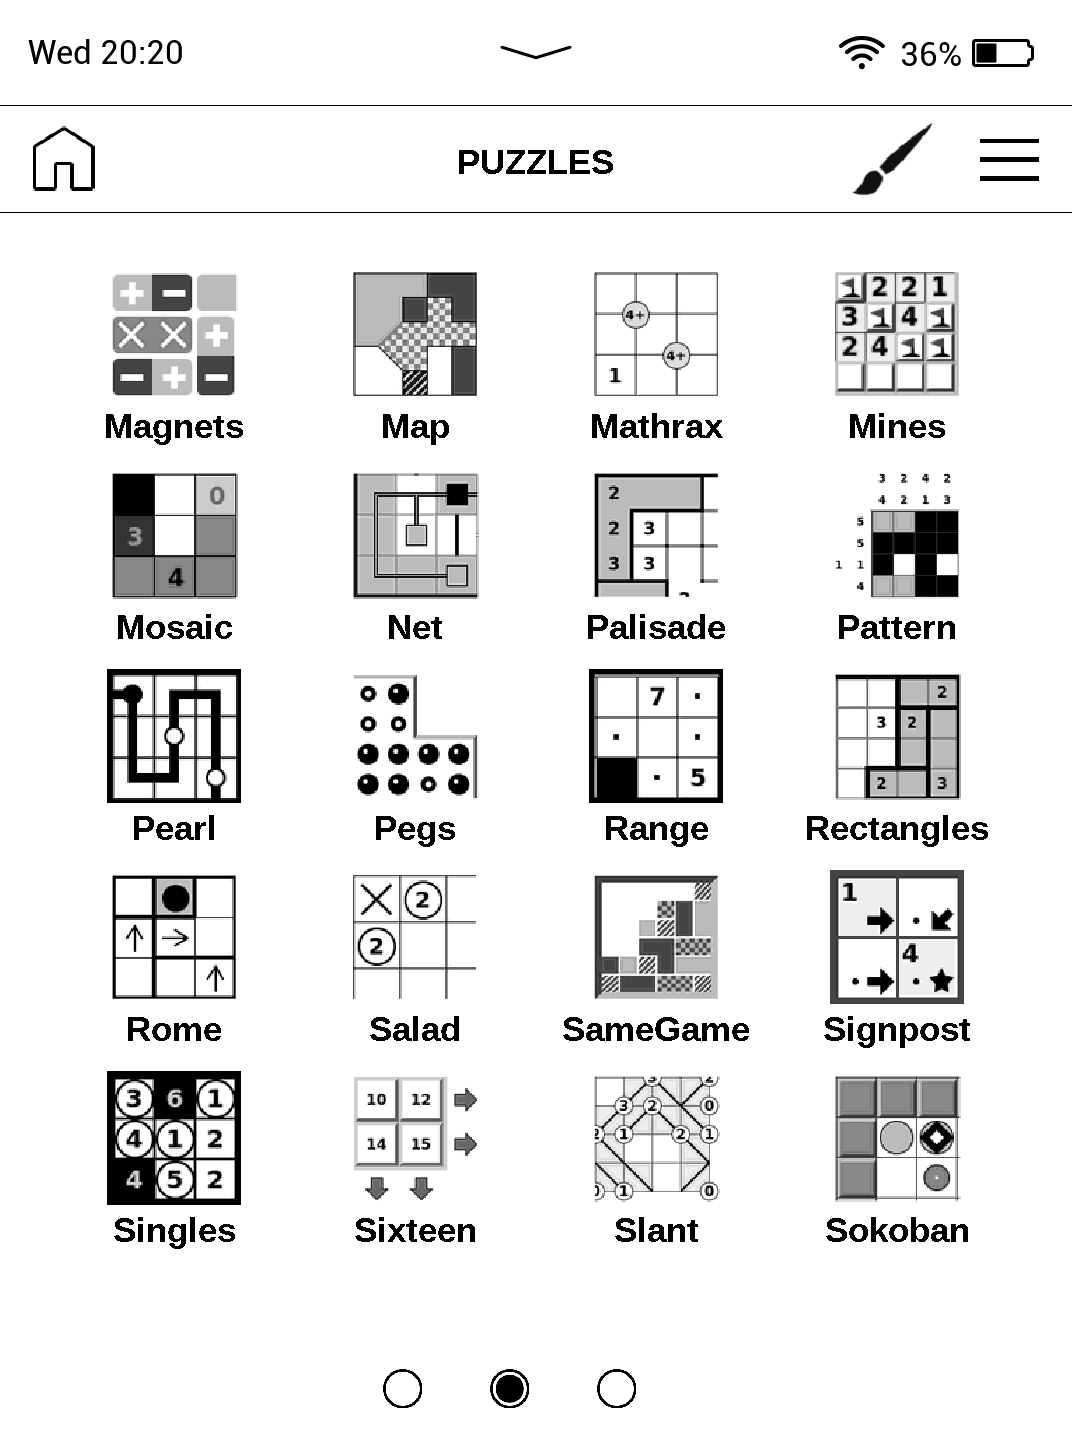
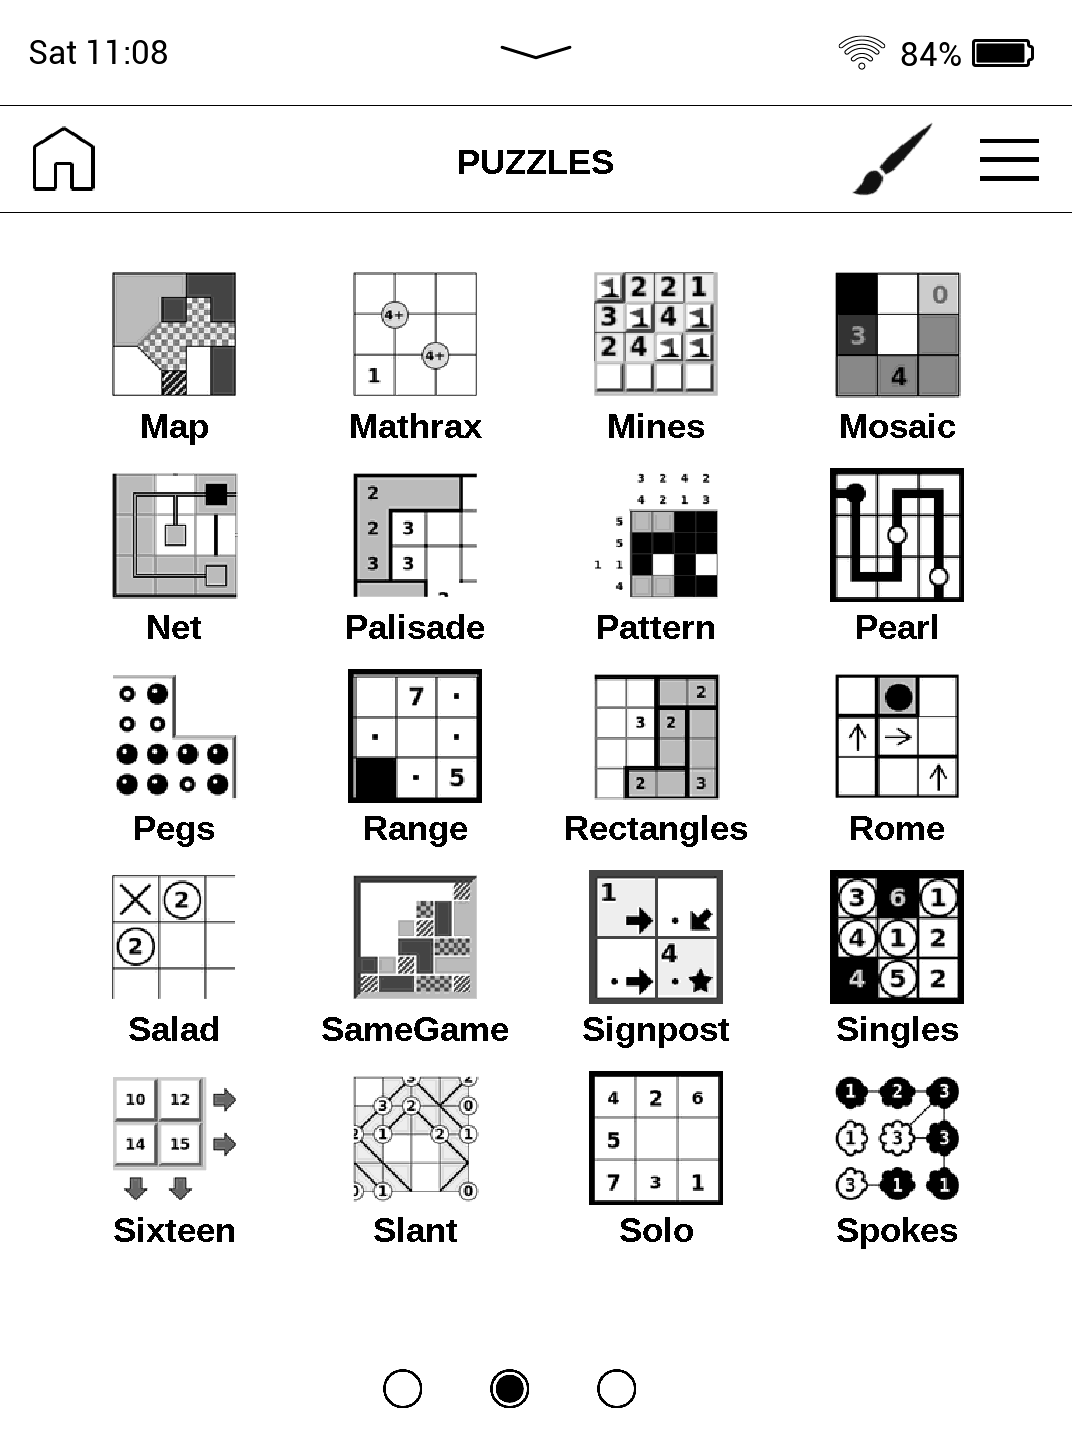
Update loopy & screenshots. Deactivate group & sokoban

diff --git a/utils/grid.c b/utils/grid.c
@@ -2747,7 +2747,7 @@ static grid *grid_new_greatgreatdodecagonal(int width, int height, const char *d
                 d = grid_get_dot(g, points, px + (2*a + 2*b), py - 2*a); grid_face_set_dot(g, d, 5);
             }
 
-            /* hexagon on bottom right  of dodecagon */
+            /* hexagon on bottom right of dodecagon */
             if ((y < height - 1) && (x < width - 1 || !(y % 2))) {
                 grid_face_add_new(g, 6);
                 d = grid_get_dot(g, points, px + (a + 2*b), py + (2*a + b)); grid_face_set_dot(g, d, 0);
@@ -2827,6 +2827,102 @@ static grid *grid_new_greatgreatdodecagonal(int width, int height, const char *d
                 d = grid_get_dot(g, points, px + (3*a + 2*b), py + (2*a +   b)); grid_face_set_dot(g, d, 0);
                 d = grid_get_dot(g, points, px + (  a + 2*b), py + (2*a +   b)); grid_face_set_dot(g, d, 1);
                 d = grid_get_dot(g, points, px + (2*a + 2*b), py + (2*a      )); grid_face_set_dot(g, d, 2);
+            }
+        }
+    }
+
+    freetree234(points);
+    assert(g->num_faces <= max_faces);
+    assert(g->num_dots <= max_dots);
+
+    grid_make_consistent(g);
+    return g;
+}
+
+static void grid_size_compassdodecagonal(int width, int height,
+                                         int *tilesize, int *xextent, int *yextent)
+{
+    int a = DODEC_A;
+    int b = DODEC_B;
+
+    *tilesize = DODEC_TILESIZE;
+    *xextent = (4*a + 2*b) * width;
+    *yextent = (4*a + 2*b) * height;
+}
+
+static grid *grid_new_compassdodecagonal(int width, int height, const char *desc)
+{
+    int x, y;
+    /* Vector for side of triangle - ratio is close to sqrt(3) */
+    int a = DODEC_A;
+    int b = DODEC_B;
+
+    /* Upper bounds - don't have to be exact */
+    int max_faces = 6 * width * height;
+    int max_dots = 18 * width * height;
+
+    tree234 *points;
+
+    grid *g = grid_empty();
+    g->tilesize = DODEC_TILESIZE;
+    g->faces = snewn(max_faces, grid_face);
+    g->dots = snewn(max_dots, grid_dot);
+
+    points = newtree234(grid_point_cmp_fn);
+
+    for (y = 0; y < height; y++) {
+        for (x = 0; x < width; x++) {
+            grid_dot *d;
+            /* centre of dodecagon */
+            int px = (4*a + 2*b) * x;
+            int py = (4*a + 2*b) * y;
+
+            /* dodecagon */
+            grid_face_add_new(g, 12);
+            d = grid_get_dot(g, points, px + (  a    ), py - (2*a + b)); grid_face_set_dot(g, d, 0);
+            d = grid_get_dot(g, points, px + (  a + b), py - (  a + b)); grid_face_set_dot(g, d, 1);
+            d = grid_get_dot(g, points, px + (2*a + b), py - (  a    )); grid_face_set_dot(g, d, 2);
+            d = grid_get_dot(g, points, px + (2*a + b), py + (  a    )); grid_face_set_dot(g, d, 3);
+            d = grid_get_dot(g, points, px + (  a + b), py + (  a + b)); grid_face_set_dot(g, d, 4);
+            d = grid_get_dot(g, points, px + (  a    ), py + (2*a + b)); grid_face_set_dot(g, d, 5);
+            d = grid_get_dot(g, points, px - (  a    ), py + (2*a + b)); grid_face_set_dot(g, d, 6);
+            d = grid_get_dot(g, points, px - (  a + b), py + (  a + b)); grid_face_set_dot(g, d, 7);
+            d = grid_get_dot(g, points, px - (2*a + b), py + (  a    )); grid_face_set_dot(g, d, 8);
+            d = grid_get_dot(g, points, px - (2*a + b), py - (  a    )); grid_face_set_dot(g, d, 9);
+            d = grid_get_dot(g, points, px - (  a + b), py - (  a + b)); grid_face_set_dot(g, d, 10);
+            d = grid_get_dot(g, points, px - (  a    ), py - (2*a + b)); grid_face_set_dot(g, d, 11);
+
+            if (x < width - 1 && y < height - 1) {
+                /* north triangle */
+                grid_face_add_new(g, 3);
+                d = grid_get_dot(g, points, px + (2*a + b), py + (  a    )); grid_face_set_dot(g, d, 0);
+                d = grid_get_dot(g, points, px + (3*a + b), py + (  a + b)); grid_face_set_dot(g, d, 1);
+                d = grid_get_dot(g, points, px + (  a + b), py + (  a + b)); grid_face_set_dot(g, d, 2);
+
+                /* east triangle */
+                grid_face_add_new(g, 3);
+                d = grid_get_dot(g, points, px + (3*a + 2*b), py + (2*a + b)); grid_face_set_dot(g, d, 0);
+                d = grid_get_dot(g, points, px + (3*a +   b), py + (3*a + b)); grid_face_set_dot(g, d, 1);
+                d = grid_get_dot(g, points, px + (3*a +   b), py + (  a + b)); grid_face_set_dot(g, d, 2);
+
+                /* south triangle */
+                grid_face_add_new(g, 3);
+                d = grid_get_dot(g, points, px + (3*a + b), py + (3*a +   b)); grid_face_set_dot(g, d, 0);
+                d = grid_get_dot(g, points, px + (2*a + b), py + (3*a + 2*b)); grid_face_set_dot(g, d, 1);
+                d = grid_get_dot(g, points, px + (  a + b), py + (3*a +   b)); grid_face_set_dot(g, d, 2);
+
+                /* west triangle */
+                grid_face_add_new(g, 3);
+                d = grid_get_dot(g, points, px + (a + b), py + (  a + b)); grid_face_set_dot(g, d, 0);
+                d = grid_get_dot(g, points, px + (a + b), py + (3*a + b)); grid_face_set_dot(g, d, 1);
+                d = grid_get_dot(g, points, px + (a    ), py + (2*a + b)); grid_face_set_dot(g, d, 2);
+
+                /* square in center */
+                grid_face_add_new(g, 4);
+                d = grid_get_dot(g, points, px + (3*a + b), py + (  a + b)); grid_face_set_dot(g, d, 0);
+                d = grid_get_dot(g, points, px + (3*a + b), py + (3*a + b)); grid_face_set_dot(g, d, 1);
+                d = grid_get_dot(g, points, px + (  a + b), py + (3*a + b)); grid_face_set_dot(g, d, 2);
+                d = grid_get_dot(g, points, px + (  a + b), py + (  a + b)); grid_face_set_dot(g, d, 3);
             }
         }
     }

diff --git a/frontend/chooser.c b/frontend/chooser.c
@@ -34,7 +34,7 @@ void chooserMenuHandler(int index) {
             Dialog(ICON_QUESTION, "Reset presets", "Reset savegame and game presets to defaults?", "OK", "Cancel", chooserResetDialogHandler);
             break;
         case 104:  /* About */
-            sprintf(buf, "Simon Tatham's Portable Puzzle Collection\n\nOriginal project by Simon Tatham\n\nPort to PocketBook by Steffen Bauer\n\nSee 'How to play' at each puzzle for individual contributors.\n\nVersion: %s", VERSION);
+            sprintf(buf, "Simon Tatham's Portable Puzzle Collection\n\nOriginal project by Simon Tatham\n\nPort to PocketBook by Steffen Bauer\n\nSee 'How to play' at each puzzle for individual contributors.\n\nVersion: %s\n\nReleased under the MIT license", VERSION);
             Dialog(ICON_INFORMATION, "About", buf, "OK", NULL, NULL);
             break;
         default:

diff --git a/include/frontend/gamelist.h b/include/frontend/gamelist.h
@@ -42,7 +42,7 @@ static GAMEINFO mygames[] = {
     { &game_flip,     &flip},
     { &game_flood,    &flood},
     { &game_galaxies, &galaxies},
-    { &game_group,    &group},
+//    { &game_group,    &group},
     { &game_guess,    &guess},
 
     { &game_inertia,  &inertia},
@@ -75,7 +75,7 @@ static GAMEINFO mygames[] = {
     { &game_slant,    &slant},
 //    { &game_slide,    &slide},
 
-    { &game_sokoban,  &sokoban},
+//    { &game_sokoban,  &sokoban},
     { &game_solo,     &solo},
     { &game_spokes,   &spokes},
     { &game_sticks,   &sticks},

diff --git a/games/loopy.c b/games/loopy.c
@@ -263,6 +263,7 @@ static solver_state *solve_game_rec(const solver_state *sstate);
     A("Penrose (rhombs)",PENROSE_P3,3,3,12)                        \
     A("Great-Great-Dodecagonal",GREATGREATDODECAGONAL,2,2,4)      \
     A("Kagome",KAGOME,3,3,6)                                      \
+    A("Compass-Dodecagonal",COMPASSDODECAGONAL,2,2,5)             \
     /* end of list */
 
 #define GRID_NAME(title,type,amin,omin,amax) title,

diff --git a/include/grid.h b/include/grid.h
@@ -107,6 +107,7 @@ typedef struct grid {
   A(DODECAGONAL,dodecagonal) \
   A(GREATDODECAGONAL,greatdodecagonal) \
   A(GREATGREATDODECAGONAL,greatgreatdodecagonal) \
+  A(COMPASSDODECAGONAL,compassdodecagonal) \
   A(PENROSE_P2,penrose_p2_kite) \
   A(PENROSE_P3,penrose_p3_thick)
 

diff --git a/README.md b/README.md
@@ -8,7 +8,7 @@ Port of [Simon Tatham's Portable Puzzle Collection](http://www.chiark.greenend.o
 
 Inspired by and building on the work of [Port to Android by Chris Boyle](https://github.com/chrisboyle/sgtpuzzles) and [Puzzles for pocketbook by mnk](https://github.com/svn2github/pocketbook-free/tree/master/puzzles)
 
-To get a mostly complete collection for all puzzles ever written for the SGT puzzles, I'm planning to also include unofficial puzzles and puzzle variations from [puzzles-unreleased](https://github.com/x-sheep/puzzles-unreleased) and [sgtpuzzles-extended](https://github.com/SteffenBauer/sgtpuzzles-extended), the unofficial *Group*, *Sokoban*, and *Slide* puzzles from the original collection, and the *Mosaic* puzzle from [here](https://github.com/kohend/simon-puzzles)
+To get a mostly complete collection for all puzzles ever written for the SGT puzzles, I'm planning to also include unofficial puzzles and puzzle variations from [puzzles-unreleased](https://github.com/x-sheep/puzzles-unreleased) and [sgtpuzzles-extended](https://github.com/SteffenBauer/sgtpuzzles-extended), and the *Mosaic* puzzle from [here](https://github.com/kohend/simon-puzzles)
 
 ### Development history
 

diff --git a/ChangeLog.md b/ChangeLog.md
@@ -1,5 +1,18 @@
 ## ChangeLog
 
+## 0.7.7 - 2021/04/23
+
+### Added
+* *Loopy*: New grid type *compass dodecagonal*
+
+### Changed
+* *Filling*: Sync with upstream (better randomization in puzzle generation, bugfixes)
+* Deactivated puzzles *Group* and *Sokoban*, deemed too esoteric (Group) or generator yet too simple (Sokoban)
+
+### Fixed
+* Bug of disappearing statusbar on manually triggered screen redraw
+* Removed unneccessary double screen updates on manual refresh
+
 ## 0.7.6 - 2021/03/12
 
 ### Fixed
